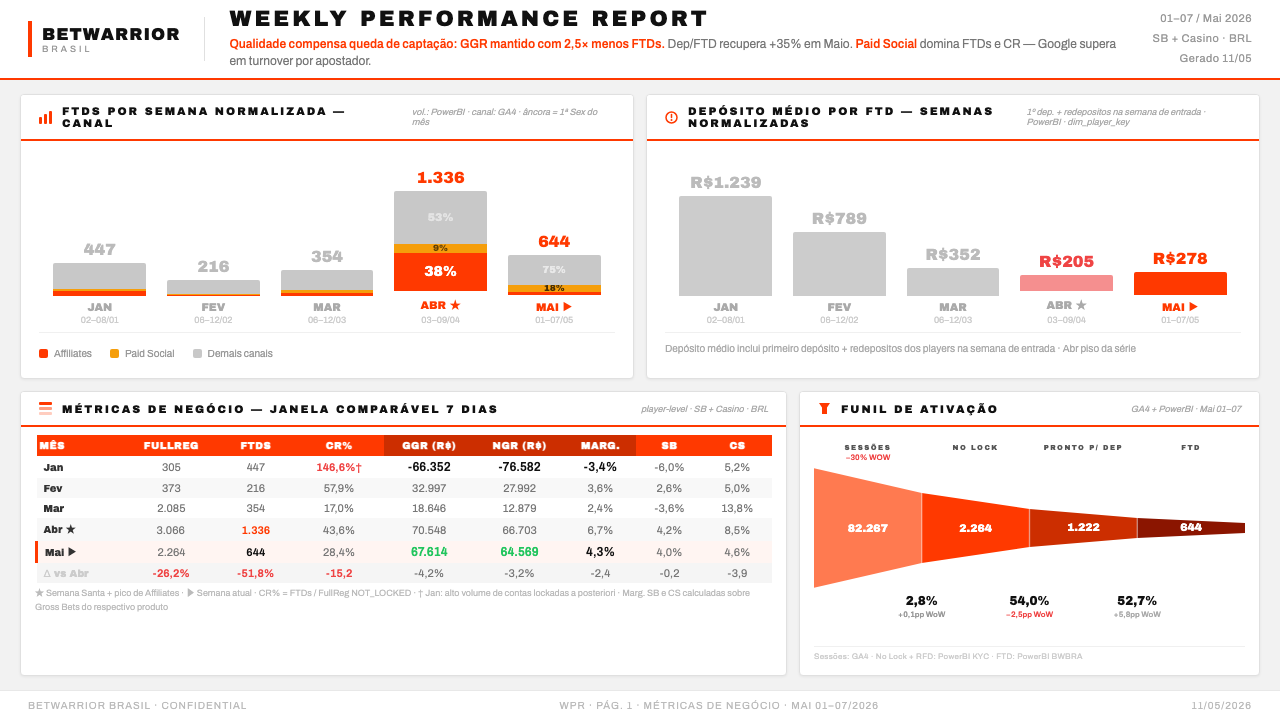
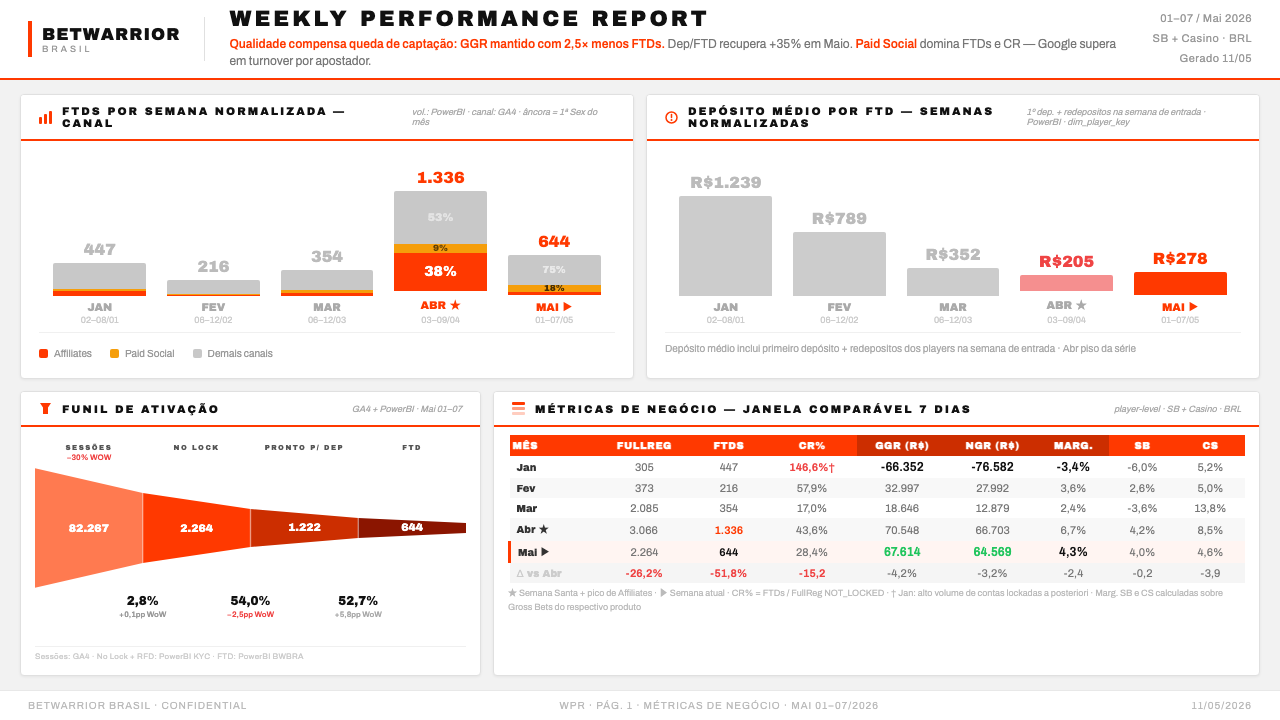
feat(wpr): funil de ativação, inversão de painéis e referência de pacing — Mai 01-07
P1 — weekly-report-slide.html
- Substitui painel Destaques por Funil de Ativação (Sessões → No Lock → Pronto p/ Dep → FTD)
- Steps: nomes acima do SVG, volumes dentro, taxas de conversão WoW entre os steps
- Taxas: 2,8% / 54,0% / 52,7% com semântica de cor (vermelho=negativo, cinza=positivo)
- Inverte posição dos painéis na row 2: Funil à esquerda, Métricas à direita
- Atualiza tabela Métricas com fonte PowerBI BWBRA (convenção estabelecida)

P3 — weekly-report-slide-p3.html
- Adiciona referência de % do mês transcorrido (38,7% · 12/31 dias) no painel Pacing

diff --git a/Projects/BetWarrior/Performance/weekly-report-slide.html b/Projects/BetWarrior/Performance/weekly-report-slide.html
@@ -353,6 +353,68 @@ tbody td:first-child {
   <!-- ══ ROW 2: MÉTRICAS + INSIGHTS ══ -->
   <div class="row row-bot">
 
+    <!-- FUNIL DE ATIVAÇÃO -->
+    <div class="panel p-hi">
+      <div class="ph">
+        <svg width="13" height="13" viewBox="0 0 13 13"><polygon points="1,1 12,1 9,5.5 9,12 4,12 4,5.5" fill="#FF3900"/></svg>
+        <span class="ph-title">Funil de Ativação</span>
+        <span class="ph-note">GA4 + PowerBI · Mai 01–07</span>
+      </div>
+      <div class="p-body" style="padding-top:10px; padding-bottom:8px;">
+        <div class="fn-wrap">
+
+          <!-- Nomes das etapas acima do funil -->
+          <div class="fn-names">
+            <div class="fn-name">Sessões<br><span style="font-family:Archivo,sans-serif;font-size:8px;color:#EF4444;font-weight:700;letter-spacing:0">−30% WoW</span></div>
+            <div class="fn-name">No Lock</div>
+            <div class="fn-name">Pronto p/ Dep</div>
+            <div class="fn-name">FTD</div>
+          </div>
+
+          <!-- SVG FUNIL — alturas nos breaks (center y=60):
+               x=0:   h=120 (0→120)
+               x=108: h=70  (25→95)   — drop visual Sessions→NL
+               x=216: h=38  (41→79)   — 54,3% de NL ≈ 54% ✓
+               x=324: h=20  (50→70)   — 52,6% de RFD ≈ 52,7% ✓
+               x=432: h=10  (55→65)
+          -->
+          <svg class="fn-svg" viewBox="0 0 432 120">
+            <polygon points="0,0   108,25  108,95  0,120"  fill="#FF7A50"/>
+            <polygon points="108,25 216,41  216,79  108,95" fill="#FF3900"/>
+            <polygon points="216,41 324,50  324,70  216,79" fill="#CC2E00"/>
+            <polygon points="324,50 432,55  432,65  324,70" fill="#8B1500"/>
+            <line x1="108" y1="25" x2="108" y2="95" stroke="white" stroke-width="1.5" opacity="0.35"/>
+            <line x1="216" y1="41" x2="216" y2="79" stroke="white" stroke-width="1.5" opacity="0.35"/>
+            <line x1="324" y1="50" x2="324" y2="70" stroke="white" stroke-width="1.5" opacity="0.35"/>
+            <!-- Volumes: fonte uniforme 11px -->
+            <text x="54"  y="64" text-anchor="middle" fill="white" font-family="'Archivo Black',sans-serif" font-size="11">82.267</text>
+            <text x="162" y="64" text-anchor="middle" fill="white" font-family="'Archivo Black',sans-serif" font-size="11">2.264</text>
+            <text x="270" y="63" text-anchor="middle" fill="white" font-family="'Archivo Black',sans-serif" font-size="11">1.222</text>
+            <text x="378" y="63" text-anchor="middle" fill="white" font-family="'Archivo Black',sans-serif" font-size="11">644</text>
+          </svg>
+
+          <!-- Taxas de conversão posicionadas entre as etapas -->
+          <div class="fn-convs">
+            <div class="fn-conv" style="left:25%">
+              <div class="fn-c-pct">2,8%</div>
+              <div class="fn-c-wow" style="color:#999;">+0,1pp WoW</div>
+            </div>
+            <div class="fn-conv" style="left:50%">
+              <div class="fn-c-pct">54,0%</div>
+              <div class="fn-c-wow" style="color:#EF4444;">−2,5pp WoW</div>
+            </div>
+            <div class="fn-conv" style="left:75%">
+              <div class="fn-c-pct">52,7%</div>
+              <div class="fn-c-wow" style="color:#AAAAAA;">+5,8pp WoW</div>
+            </div>
+          </div>
+
+          <div class="fn-note">Sessões: GA4 · No Lock + RFD: PowerBI KYC · FTD: PowerBI BWBRA</div>
+
+        </div>
+      </div>
+    </div>
+
     <!-- TABLE -->
     <div class="panel p-wide">
       <div class="ph">
@@ -425,68 +487,6 @@ tbody td:first-child {
         </table>
         <div class="tnote">
           ★ Semana Santa + pico de Affiliates · ▶ Semana atual · CR% = FTDs / FullReg NOT_LOCKED · † Jan: alto volume de contas lockadas a posteriori · Marg. SB e CS calculadas sobre Gross Bets do respectivo produto
-        </div>
-      </div>
-    </div>
-
-    <!-- FUNIL DE ATIVAÇÃO -->
-    <div class="panel p-hi">
-      <div class="ph">
-        <svg width="13" height="13" viewBox="0 0 13 13"><polygon points="1,1 12,1 9,5.5 9,12 4,12 4,5.5" fill="#FF3900"/></svg>
-        <span class="ph-title">Funil de Ativação</span>
-        <span class="ph-note">GA4 + PowerBI · Mai 01–07</span>
-      </div>
-      <div class="p-body" style="padding-top:10px; padding-bottom:8px;">
-        <div class="fn-wrap">
-
-          <!-- Nomes das etapas acima do funil -->
-          <div class="fn-names">
-            <div class="fn-name">Sessões<br><span style="font-family:Archivo,sans-serif;font-size:8px;color:#EF4444;font-weight:700;letter-spacing:0">−30% WoW</span></div>
-            <div class="fn-name">No Lock</div>
-            <div class="fn-name">Pronto p/ Dep</div>
-            <div class="fn-name">FTD</div>
-          </div>
-
-          <!-- SVG FUNIL — alturas nos breaks (center y=60):
-               x=0:   h=120 (0→120)
-               x=108: h=70  (25→95)   — drop visual Sessions→NL
-               x=216: h=38  (41→79)   — 54,3% de NL ≈ 54% ✓
-               x=324: h=20  (50→70)   — 52,6% de RFD ≈ 52,7% ✓
-               x=432: h=10  (55→65)
-          -->
-          <svg class="fn-svg" viewBox="0 0 432 120">
-            <polygon points="0,0   108,25  108,95  0,120"  fill="#FF7A50"/>
-            <polygon points="108,25 216,41  216,79  108,95" fill="#FF3900"/>
-            <polygon points="216,41 324,50  324,70  216,79" fill="#CC2E00"/>
-            <polygon points="324,50 432,55  432,65  324,70" fill="#8B1500"/>
-            <line x1="108" y1="25" x2="108" y2="95" stroke="white" stroke-width="1.5" opacity="0.35"/>
-            <line x1="216" y1="41" x2="216" y2="79" stroke="white" stroke-width="1.5" opacity="0.35"/>
-            <line x1="324" y1="50" x2="324" y2="70" stroke="white" stroke-width="1.5" opacity="0.35"/>
-            <!-- Volumes: fonte uniforme 11px -->
-            <text x="54"  y="64" text-anchor="middle" fill="white" font-family="'Archivo Black',sans-serif" font-size="11">82.267</text>
-            <text x="162" y="64" text-anchor="middle" fill="white" font-family="'Archivo Black',sans-serif" font-size="11">2.264</text>
-            <text x="270" y="63" text-anchor="middle" fill="white" font-family="'Archivo Black',sans-serif" font-size="11">1.222</text>
-            <text x="378" y="63" text-anchor="middle" fill="white" font-family="'Archivo Black',sans-serif" font-size="11">644</text>
-          </svg>
-
-          <!-- Taxas de conversão posicionadas entre as etapas -->
-          <div class="fn-convs">
-            <div class="fn-conv" style="left:25%">
-              <div class="fn-c-pct">2,8%</div>
-              <div class="fn-c-wow" style="color:#999;">+0,1pp WoW</div>
-            </div>
-            <div class="fn-conv" style="left:50%">
-              <div class="fn-c-pct">54,0%</div>
-              <div class="fn-c-wow" style="color:#EF4444;">−2,5pp WoW</div>
-            </div>
-            <div class="fn-conv" style="left:75%">
-              <div class="fn-c-pct">52,7%</div>
-              <div class="fn-c-wow" style="color:#AAAAAA;">+5,8pp WoW</div>
-            </div>
-          </div>
-
-          <div class="fn-note">Sessões: GA4 · No Lock + RFD: PowerBI KYC · FTD: PowerBI BWBRA</div>
-
         </div>
       </div>
     </div>

diff --git a/Projects/BetWarrior/Performance/weekly-report-slide-p3.html b/Projects/BetWarrior/Performance/weekly-report-slide-p3.html
@@ -333,6 +333,17 @@ body {
       <span class="ph-note">Acumulado 01–13/mai · ref 38,7% (12/31 dias) · USD × R$5,56 · fonte: Diego/Perfo</span>
     </div>
     <div class="p-body" style="padding:8px 16px 6px;">
+
+      <!-- REFERÊNCIA DO PERÍODO -->
+      <div style="display:flex; align-items:center; gap:10px; margin-bottom:8px; padding-bottom:8px; border-bottom:1px solid #EFEFEF;">
+        <div style="flex:1; height:1px; background:#EFEFEF;"></div>
+        <div style="display:flex; align-items:baseline; gap:6px;">
+          <span style="font-family:'Archivo Black'; font-size:18px; color:#FF3900; line-height:1;">38,7%</span>
+          <span style="font-family:'Archivo'; font-size:9px; color:#999; text-transform:uppercase; letter-spacing:1.5px;">do mês · 12 de 31 dias</span>
+        </div>
+        <div style="flex:1; height:1px; background:#EFEFEF;"></div>
+      </div>
+
       <div style="flex:1; min-height:0; display:flex; align-items:stretch;">
 
         <!-- ── GOOGLE ── -->